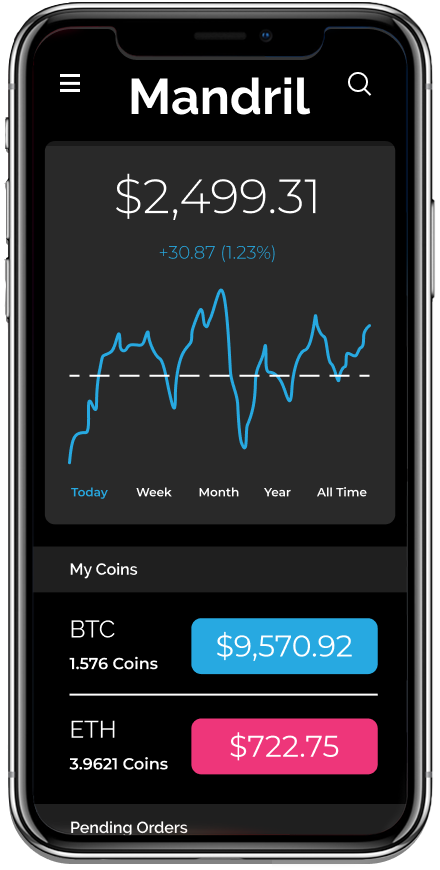
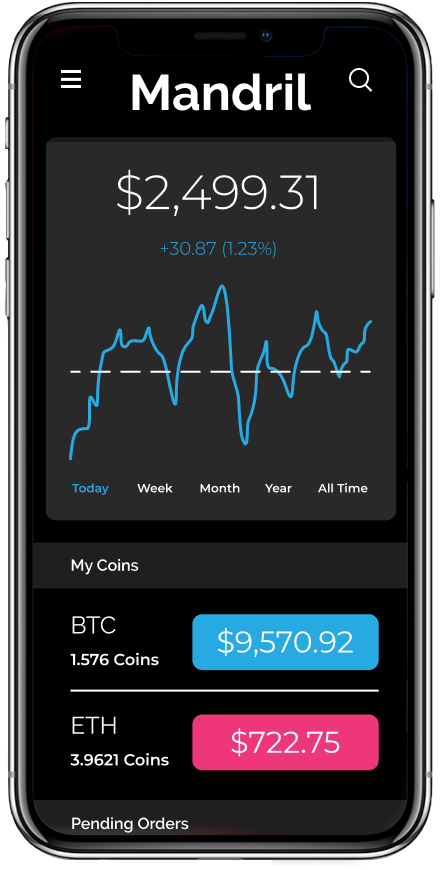
Changed to Dashboard images

diff --git a/index.html b/index.html
@@ -61,15 +61,15 @@
               </div>
               <div class="col-sm-12 col-md-5">
                 <div class="header-contact-form">
-                  <form class="submit" action="https://mandril.us17.list-manage.com/subscribe/post?u=0aa9cb006c275b37acd219ca9&amp;id=a9d5a2f2f5" method="post">
+                  <!-- <form class="submit" action="https://mandril.us17.list-manage.com/subscribe/post?u=0aa9cb006c275b37acd219ca9&amp;id=a9d5a2f2f5" method="post">
                     <br>
                     <h3 class="form-title">Join The Waitlist</h3>
-                    <!-- <input type="text" placeholder="Name" name="name" class="form-control"> -->
+                    <input type="text" placeholder="Name" name="name" class="form-control">
                     <input type="email" name="EMAIL" placeholder="Email Address" class="form-control">
-                    <!-- <textarea placeholder="Comment" class="form-control"></textarea> -->
+                    <textarea placeholder="Comment" class="form-control"></textarea>
                     <button class="btn btn-block" type="submit">Sign Up</button>
                     <div class="alerts-wrap"></div>
-                  </form>
+                  </form> -->
                 </div>
               </div>
             </div>
@@ -84,7 +84,7 @@
               <h2><strong><br>Scalable</strong></h2>
               <p><br>Market spikes can happen in a matter of seconds. Yet it can take minutes to deploy servers to meet the resulting customer traffic.</p>
               <p>Mandril is optimized to handle bottlenecks such as signing up, order matching and transferring currency.</p>
-              <p>Designed with a pre-dominantly serverless architecture, our hybrid architecture is serverless where it aboslutely necessary.</p>
+              <p>Designed with a predominantly serverless architecture, our hybrid architecture is serverless where aboslutely necessary.</p>
               <p><strong>Finally, an exchange that won't crash.</strong></p>
             </div>
             <!-- <div class="col-sm-6"><img height="400" src="assets/images/Mockups-Condensed.png" alt="Slider Image 1"></div> -->
@@ -144,7 +144,7 @@
                 </div>
               </div>
             </div>
-            <div class="col-sm-4 text-center wow pulse"><img src="assets/images/Iphone1.png" alt="Screenshot 1" class="img-responsive">
+            <div class="col-sm-4 text-center wow pulse"><img src="assets/images/1 Dashboard.png" alt="Screenshot 1" class="img-responsive">
             </div>
             <div class="col-sm-4">
               <div class="featured-item wow bounceInRight">

diff --git a/assets/css/light-theme.css b/assets/css/light-theme.css
@@ -117,7 +117,7 @@ a (standard):	#37bbf9 (dark blue)
     float: right;
     width: 368px;
     width: 24.53333rem;
-    background: url(../images/Iphone2.png) top center no-repeat;
+    background: url(../images/1\ Dashboard.png) top center no-repeat;
     background-size: 100% auto;
     padding-top: 165px;
     padding-top: 11rem;
